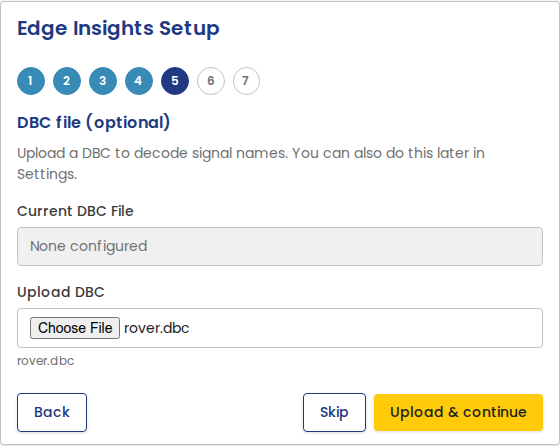
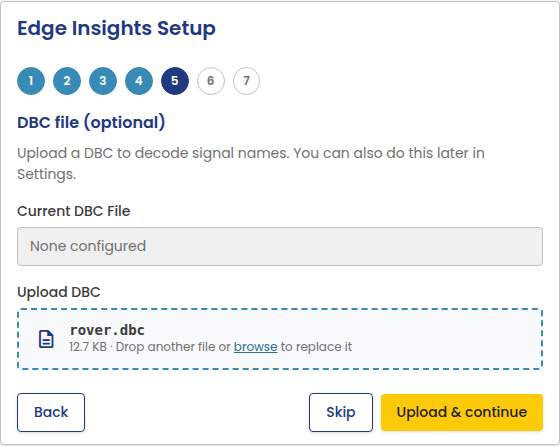
docs: update the portal guide and screenshots for v0.14.0

diff --git a/docs/api/reference.md b/docs/api/reference.md
@@ -86,7 +86,7 @@ curl -fs 'http://localhost:36300/api/v0/logs/interfaces'
 ## GET /api/v0/logs/raw { #logs-raw }
 
 Download recorded raw CAN frames over a time range, as a compact binary
-stream or transcoded to candump text.
+stream, or transcoded to candump text or an ASAM MF4 file.
 
 ### Query parameters
 
@@ -95,7 +95,7 @@ stream or transcoded to candump text.
 | `interface` | Yes | Interface name as the unit shows it. SocketCAN names such as `can0` and full Kvaser descriptions both work. The server normalizes them. |
 | `from` | No | Microsecond Unix timestamp. Exclusive lower bound on record timestamps. This is also the resume handle. |
 | `to` | No | Microsecond Unix timestamp. Exclusive upper bound. Defaults to now. |
-| `format` | No | Omit for the binary stream. Use `log` for candump text, or `log.zip` for candump text inside a zip archive. See [Output formats](#output-formats). |
+| `format` | No | Omit for the binary stream. Use `log` for candump text, `log.zip` for candump text inside a zip archive, or `mf4` for an ASAM MF4 file. See [Output formats](#output-formats). |
 | `part` | No | Requires `format`. 1-based part number of a segmented export. Only affects the download file name. |
 | `export_id` | No | Requires `format`. A token you choose (1 to 64 characters of `A-Z`, `a-z`, `0-9`, `_`, `-`) so you can follow the export with [`GET /api/v0/logs/export/status`](#export-status). |
 
@@ -114,7 +114,7 @@ curl -f -o kvaser.zst \
 
 ### Output formats
 
-The raw endpoint can return data in three formats.
+The raw endpoint can return data in four formats.
 
 **Binary stream (default).** Omit `format`. The body is the unit's stored
 records concatenated as a sequence of zstd frames. Standard zstd tooling
@@ -158,8 +158,22 @@ should stay compressed on disk. The archive is zip32: an entry that would
 exceed 4 GiB stops the stream, so slice large ranges into parts first (see
 [`raw/estimate`](#logs-estimate)).
 
-**The transcoding queue.** Transcoding to text uses one CPU core for the
-duration of the download, so **only one text export runs at a time**. Further
+**ASAM MF4 (`format=mf4`).** An ASAM MDF 4.10 bus-logging file
+(`Content-Type: application/octet-stream`, no transfer-layer compression).
+Data frames are in `CAN_DataFrame` channel groups, remote frames in
+`CAN_RemoteFrame`, and error frames in `CAN_ErrorFrame`. The record blocks
+are compressed, so the file is much smaller than candump text. asammdf,
+Vector and Kvaser tools, and the unit's importer read it. The file holds raw
+CAN frames, not decoded signal values.
+
+```bash
+# One hour of can0 as an MF4 file:
+curl -f -o can0.mf4 \
+  'http://localhost:36300/api/v0/logs/raw?interface=can0&format=mf4&from=1752700000000000&to=1752703600000000'
+```
+
+**The transcoding queue.** Transcoding uses one CPU core for the duration
+of the download, so **only one transcoded export runs at a time**. Further
 requests wait in a bounded queue. When the queue is full you get
 `429 export_queue_full`. Retry later.
 [`GET /api/v0/logs/export/status`](#export-status) reports the queue state
@@ -175,8 +189,8 @@ poll [`GET /api/v0/logs/export/status?id=<token>`](#export-status).
 | `400` | `invalid_request` | Missing `interface`, non-numeric `from` or `to`, `from` greater than `to`, or a duplicated query parameter. `from` equal to `to` is a valid empty range and returns `200` with an empty body. |
 | `404` | `no_data` | Nothing has ever been recorded on this unit. |
 | `404` | `unknown_interface` | No data has been recorded for that interface. This is the usual "nothing yet" answer. |
-| `413` | `export_too_large` | Text formats only. The estimated output is larger than the unit's configured limit. Download in parts. |
-| `429` | `export_queue_full` | Text formats only. A text export is already running and the wait queue is full. Retry later. |
+| `413` | `export_too_large` | Transcoded formats only. The estimated output is larger than the unit's configured limit. Download in parts. |
+| `429` | `export_queue_full` | Transcoded formats only. A transcoded export is already running and the wait queue is full. Retry later. |
 | `503` | `unavailable` | The storage backend is unreachable. |
 
 ## GET /api/v0/logs/decoded { #logs-decoded }
@@ -227,7 +241,7 @@ of a time-range picker.
 | `interface` | Yes | Interface name, same as [`logs/raw`](#logs-raw). |
 | `from` | No | Microsecond Unix timestamp, exclusive lower bound. |
 | `to` | No | Microsecond Unix timestamp, exclusive upper bound. Defaults to now. |
-| `format` | No | The output format to estimate for. Defaults to `log`. |
+| `format` | No | The output format to estimate for: `log`, `log.zip`, or `mf4`. Defaults to `log`. |
 | `segment_bytes` | No | When set, compute part boundaries for slicing. See [Slicing large exports](#slicing-large-exports). |
 
 ### Response
@@ -282,9 +296,8 @@ with the same meanings as [`logs/raw`](#logs-raw).
 
 ## GET /api/v0/logs/export/status { #export-status }
 
-Report the state of the text-transcoding export queue. Only the `format=log`
-and `format=log.zip` downloads are queued, so this endpoint concerns text
-exports; the binary stream is never queued.
+Report the state of the transcoding export queue. Only downloads with a
+`format` are queued. The binary stream is never queued.
 
 ### Query parameters
 
@@ -300,8 +313,8 @@ Without `id`, the response reports overall queue occupancy:
 { "active": true, "queued": 2 }
 ```
 
-`active` is whether a text export is currently running. `queued` is how many
-are waiting behind it.
+`active` is whether a transcoded export is currently running. `queued` is
+how many are waiting behind it.
 
 With `id=<token>`, the response also follows that specific export:
 

diff --git a/docs/portal/export-log.md b/docs/portal/export-log.md
@@ -1,7 +1,7 @@
 # Export Log
 
-Export recorded raw CAN data as a candump `.log` file. Open it from
-**Export Log** in the portal sidebar.
+Export recorded raw CAN data as a SocketCAN `.log` file or an ASAM MF4
+`.mf4` file. Open it from **Export Log** in the portal sidebar.
 
 The form is on the left. The **Estimate** on the right shows the size of
 the export.
@@ -30,22 +30,41 @@ top of the page names the file in your Downloads folder.
 ### Large ranges
 
 The largest single export file is 2 GB. A range with a larger estimate
-exports as several `.log.zip` parts, one after another. The estimate shows
-how many parts, and the button reads **Export N parts**. Your browser may
-ask once to allow multiple downloads.
+exports as several parts, one after another. SocketCAN parts are `.log.zip`
+files, and MF4 parts are `.mf4` files. The estimate shows how many parts,
+and the button reads **Export N parts**. Your browser may ask once to allow
+multiple downloads.
 
 The **Parts** list shows the state of each part. Parts are saved oldest
 first. Select **Stop after current part** to stop. Parts already saved stay
-valid. If a part fails, select **Retry** next to it.
+valid. If a part fails, select **Retry** next to it. When the export ends
+with failed parts, select **Retry failed parts** to retry all of them.
 
 ## File format
 
-The file uses the candump `.log` format. Edge Insights and can-utils tools,
-such as `canplayer`, can read it. Error frames are written the way
-`candump -l` writes them, so the file imports again with its error frames.
+Select the format under **File Format**:
 
-On Windows, every line names the interface `can0`. can-utils tools reject
-the longer Kvaser channel names.
+- **SocketCAN (.log)**: the candump `.log` format. This is the default.
+- **ASAM MF4 (.mf4)**: the ASAM MDF 4 format. It makes the smallest files,
+  so the download is fastest. Use it for remote connections.
+
+### SocketCAN
+
+Edge Insights and can-utils tools, such as `canplayer`, can read the file.
+Error frames are written the way `candump -l` writes them, so the file
+imports again with its error frames.
+
+For a Kvaser channel, every line names the interface `can0`. can-utils
+tools reject the longer Kvaser channel names.
+
+### ASAM MF4
+
+MF4 files are much smaller than SocketCAN logs. They open in asammdf, in
+Vector and Kvaser tools, and in [Import Log](import-log.md).
+
+The file holds raw CAN frames, not decoded signal values. To get signal
+values, convert the file with your DBC file, e.g. in asammdf, CANape, or the
+Vector Logging Converter.
 
 ## Anomalies in this range
 

diff --git a/docs/portal/import-log.md b/docs/portal/import-log.md
@@ -14,7 +14,8 @@ will do. Select **Start import** in the summary to run it.
 Drop a log file on the form, or select **browse**. Supported formats:
 candump (`.log`), MF4 (`.mf4`), Vector ASC (`.asc`), Kvaser text (`.txt`),
 and Kvaser Memorator (`.kme…`). CAN FD is supported only in candump and MF4
-files. The other formats carry classic CAN only.
+files. The other formats carry classic CAN only. Import Log reads only MF4
+files that hold raw CAN frames, not files of decoded signal values.
 
 The largest log file you can upload is 500 MB. A larger file is refused
 when you select it, with its size and the limit.
@@ -33,13 +34,21 @@ Choose the **Interface** to import into, its **Nominal bitrate**, and the
   past session. **Shift to current time** moves every frame so that the last
   one lands at the current time. This is useful for demos.
 - **DBC**: import with **No DBC**, keep the interface's current DBC file,
-  or select **Upload new** to replace it. The largest DBC file you can
-  upload is 10 MB. Demo data always uses its bundled DBC file.
+  or select **Upload new** to replace it. Then drop a DBC file on the form,
+  or select **browse**. The largest DBC file you can upload is 10 MB. Demo
+  data always uses its bundled DBC file.
 - **J1939 Mode**: turn it on if the log came from a J1939 bus. The setting
   applies with or without a DBC file. Demo data is classic CAN, so the
   option is off for it.
 - **Clear existing data for this interface first**: recommended, so that
   results are not mixed with earlier data.
+
+## Logs with more than one bus
+
+A log can hold frames from more than one bus. An import takes one bus.
+When you select **Start import** for such a log, a **Choose a bus** dialog
+lists the buses with the frame count of each. The bus with the most frames
+is selected. Select a bus, then select **Import**.
 
 ## Restrictions
 

diff --git a/docs/portal/settings.md b/docs/portal/settings.md
@@ -15,6 +15,11 @@ interface at a time. If your hardware has more than one channel, choose the
 channel to use here. The badge next to the list shows whether the interface
 is up.
 
+On Linux, the list shows SocketCAN interfaces and, when Kvaser CANlib is
+installed, Kvaser channels. Select the refresh button next to the list to
+scan for interfaces again, e.g. after you connect an adapter or install the
+Kvaser drivers or CANlib.
+
 - **Bring up** starts capture on the selected interface. It can take up to
   10 seconds. The button stays disabled until a nominal bitrate is set. A
   device that joins a bus at the wrong bitrate disturbs the other devices
@@ -38,6 +43,9 @@ When you change a setting, a bar at the bottom of the page shows
 **Unsaved changes**. Select **Save** to apply the changes, or **Discard** to
 undo them. A change to the bus settings applies the next time you bring the
 interface up.
+
+When all interfaces are down, **Save** applies the changes to the interface
+selected in the list and makes it the configured interface.
 
 ### Missing interface
 
@@ -83,8 +91,9 @@ requirement does not apply to it.
 ### Decoding
 
 **DBC File** shows the DBC file in use and how many messages it defines.
-Select **Upload new** to replace it, or **Remove** to decode nothing. A DBC
-file decodes raw CAN frames into named signals.
+Select **Upload new** or drop a DBC file on the row to replace it. Select
+**Remove** to decode nothing. With no DBC file, drop a file on the row or
+select **browse**. A DBC file decodes raw CAN frames into named signals.
 
 Signals wider than 64 bits are skipped when the file loads. These describe
 payloads that are reassembled from several frames, which Edge Insights does

diff --git a/docs/getting-started/first-run.md b/docs/getting-started/first-run.md
@@ -60,11 +60,12 @@ last step.
 
 5. **DBC file (optional)**: upload a DBC file so Edge Insights can decode
    raw CAN frames into named signals. The step shows the DBC file in use,
-   if there is one. Choose a file and select **Upload & continue**. Edge
-   Insights checks that the file is a valid DBC file, but uses it only when
-   you finish setup. If you return to this step, it shows the uploaded file
-   name and its number of messages. Select **Skip** to continue without a
-   DBC file. You can add or change the file later in Settings.
+   if there is one. Drop a DBC file on the step or select **browse**, then
+   select **Upload & continue**. Edge Insights checks that the file is a
+   valid DBC file, but uses it only when you finish setup. If you return to
+   this step, it shows the uploaded file name and its number of messages.
+   Select **Skip** to continue without a DBC file. You can add or change the
+   file later in Settings.
 
     ![Setup wizard: DBC file](../images/getting-started/setup-wizard-05-dbc-file.png)
 

diff --git a/docs/api/index.md b/docs/api/index.md
@@ -111,7 +111,7 @@ other endpoint needs.
 | Endpoint | What it returns |
 | --- | --- |
 | [`GET /api/v0/logs/interfaces`](reference.md#logs-interfaces) | Interfaces with stored data or attached now, and their state |
-| [`GET /api/v0/logs/raw`](reference.md#logs-raw) | Raw CAN frames, as a compact binary stream or as candump text |
+| [`GET /api/v0/logs/raw`](reference.md#logs-raw) | Raw CAN frames, as a compact binary stream, as candump text, or as an ASAM MF4 file |
 | [`GET /api/v0/logs/decoded`](reference.md#logs-decoded) | DBC-decoded signals, as a binary stream |
 | [`GET /api/v0/logs/raw/estimate`](reference.md#logs-estimate) | Export size estimate and slice boundaries for a range |
 | [`GET /api/v0/logs/export/status`](reference.md#export-status) | Status of the transcoding export queue |

diff --git a/docs/troubleshooting/index.md b/docs/troubleshooting/index.md
@@ -23,10 +23,18 @@ sudo modprobe vcan
 sudo ip link add dev vcan0 type vcan
 ```
 
+Kvaser channels appear in the list only when Kvaser CANlib is installed. If
+you install CANlib while Edge Insights runs, select the refresh button next
+to the interface list in [Settings](../portal/settings.md#interface).
+
 **Windows**: open Kvaser Device Guide and confirm your Kvaser device
 appears there. If you just installed the Kvaser drivers, reboot your PC
 before checking again. A restart is often required before a newly
 installed device is enumerated.
+
+If the Kvaser drivers are not installed, Edge Insights starts with an empty
+interface list. Install the drivers, then select the refresh button next to
+the interface list.
 
 ## Sharing the CAN bus with other tools
 

diff --git a/docs/index.md b/docs/index.md
@@ -19,7 +19,8 @@ drivers or CANlib SDK aren't already installed, the installer detects
 this and installs them for you automatically.
 
 **Linux**: a SocketCAN-compatible CAN interface, or a virtual `vcan` bus
-if you just want to try Edge Insights without hardware attached. Ubuntu
+if you just want to try Edge Insights without hardware attached. Kvaser
+adapters also work through Kvaser CANlib, if it is installed. Ubuntu
 22.04+ or Debian 12+ is required; other systemd-based distributions may
 work but are untested. Needs `systemd` with user services
 (`systemctl --user`).

diff --git a/docs/getting-started/installation-linux.md b/docs/getting-started/installation-linux.md
@@ -17,6 +17,8 @@ network, see
 - `systemd` with user services (`systemctl --user`)
 - The `can` kernel module, i.e. SocketCAN, also `vcan` if you want a virtual
   bus for testing without hardware
+- Optional: Kvaser CANlib, to use Kvaser adapters through CANlib. See
+  [Settings](../portal/settings.md#interface).
 - `sudo` / root access to install
 - About 1 GB of free disk space
 
